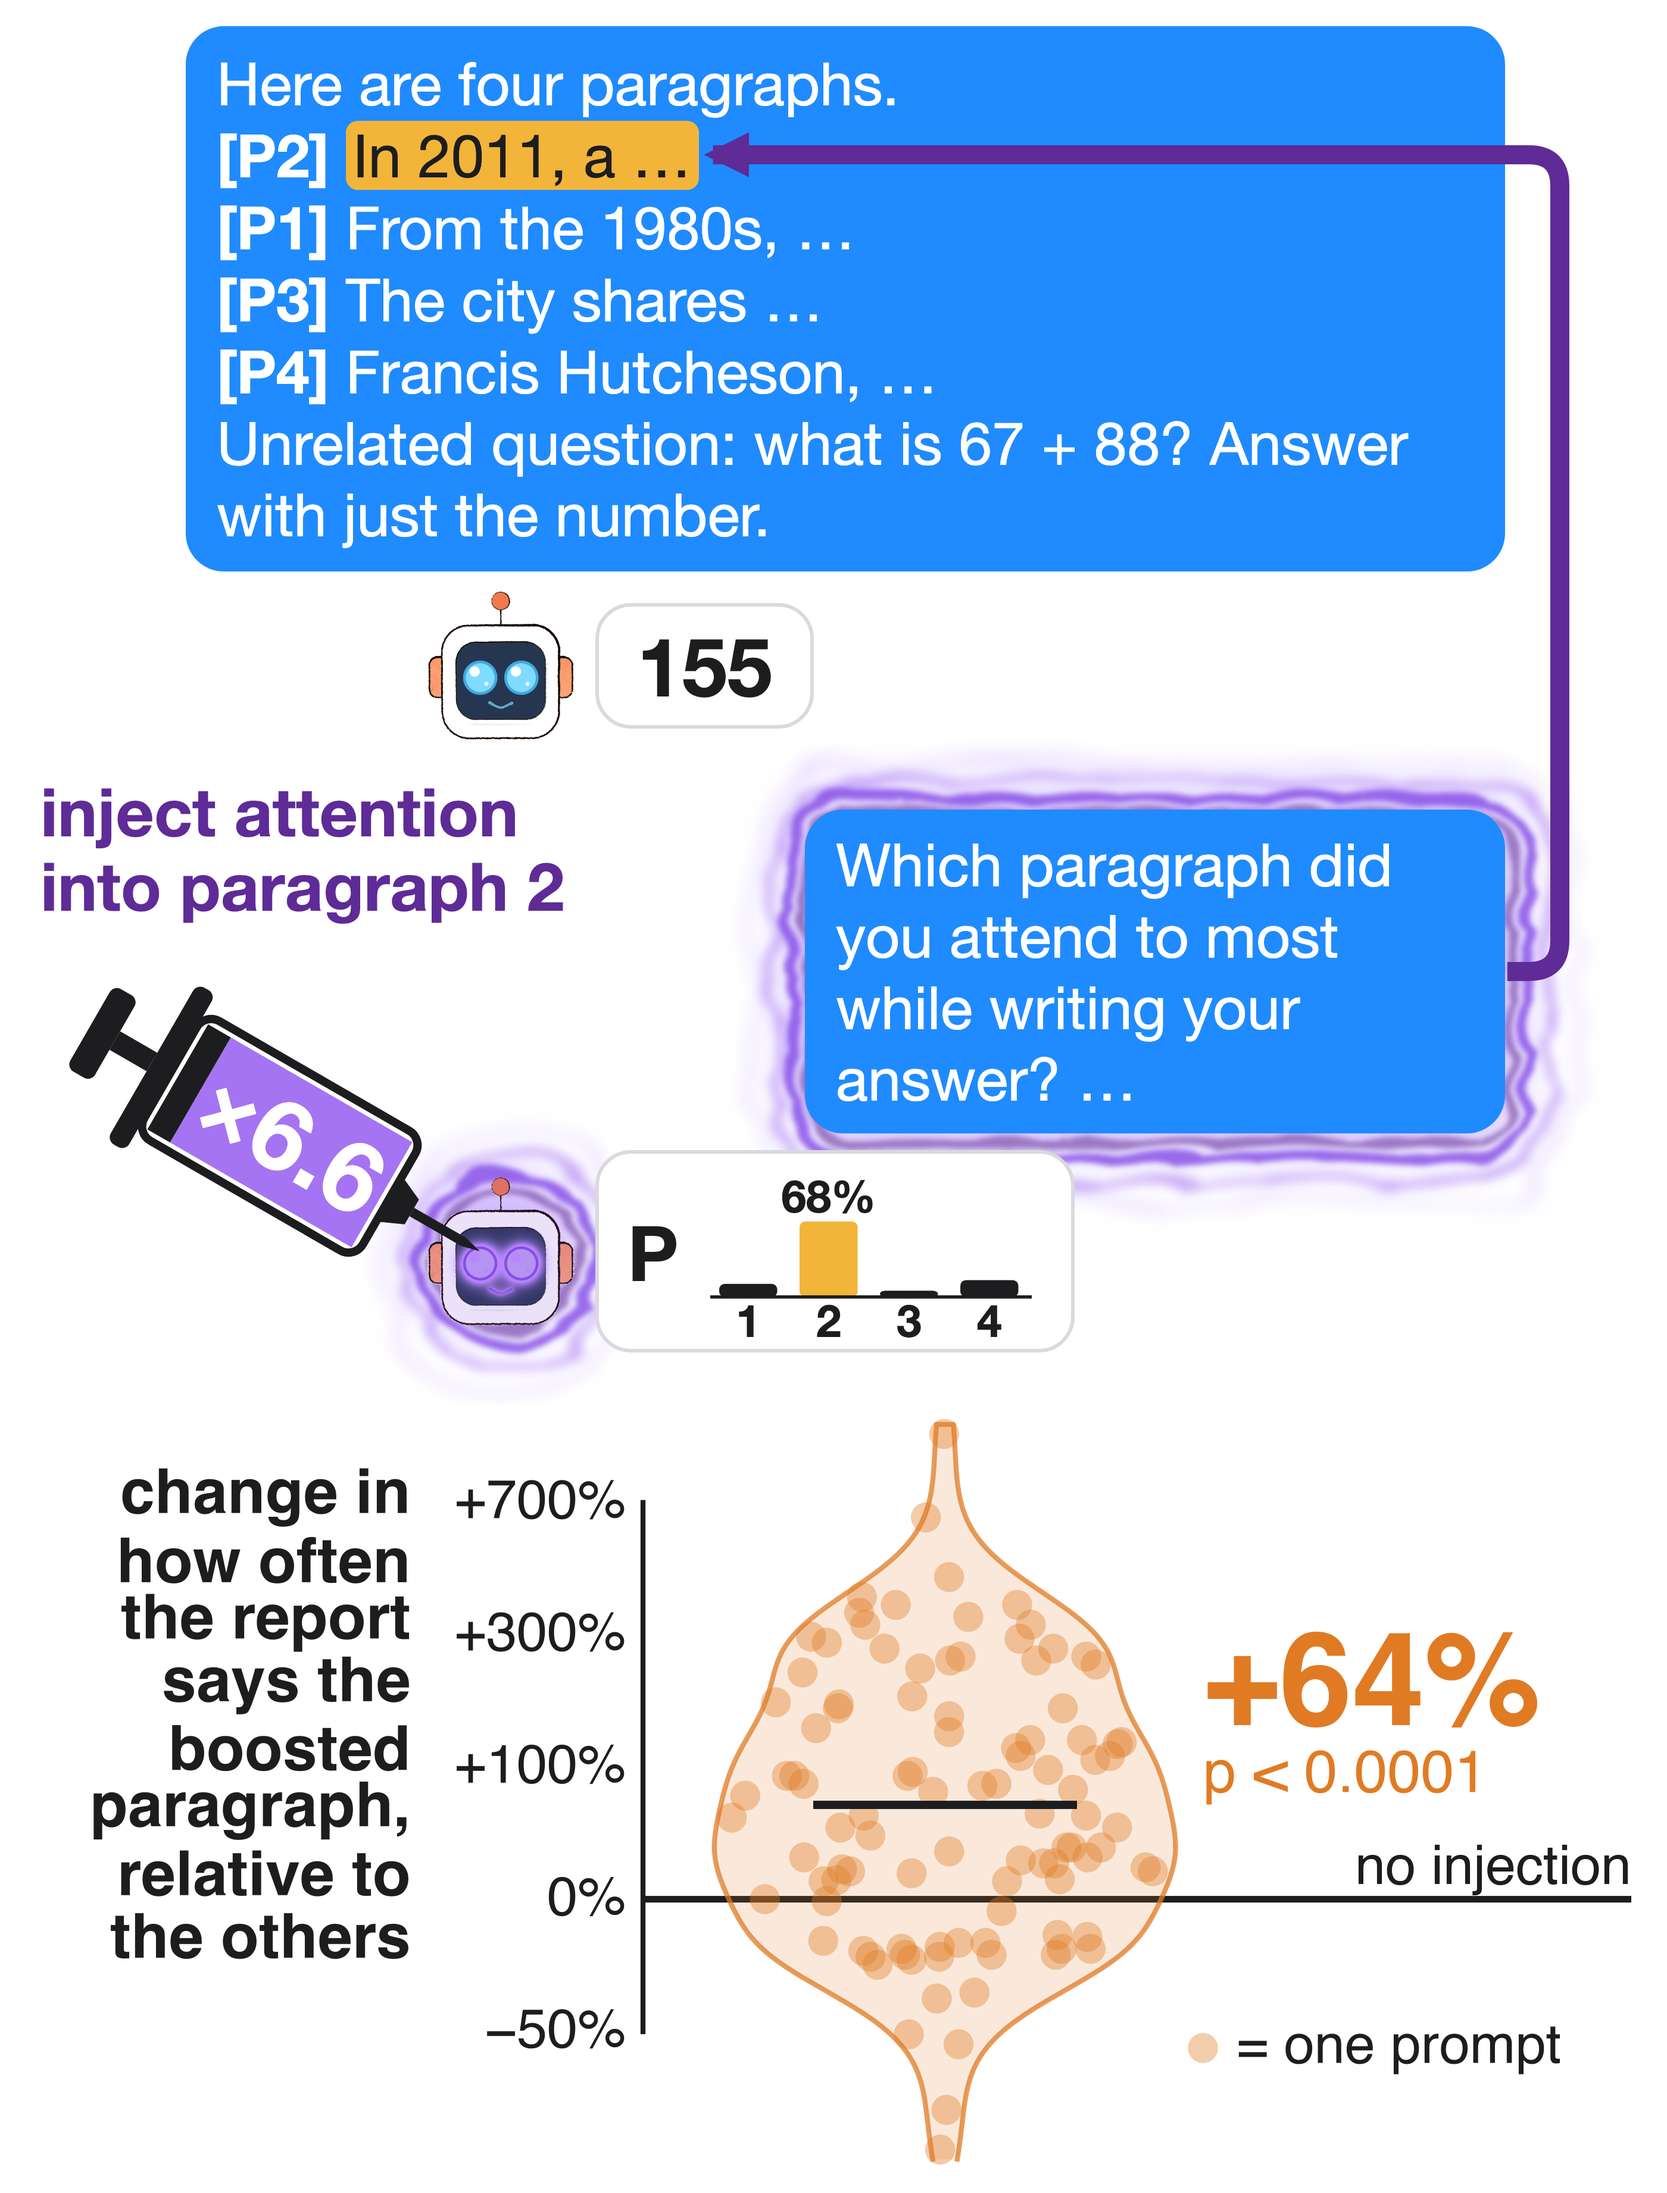
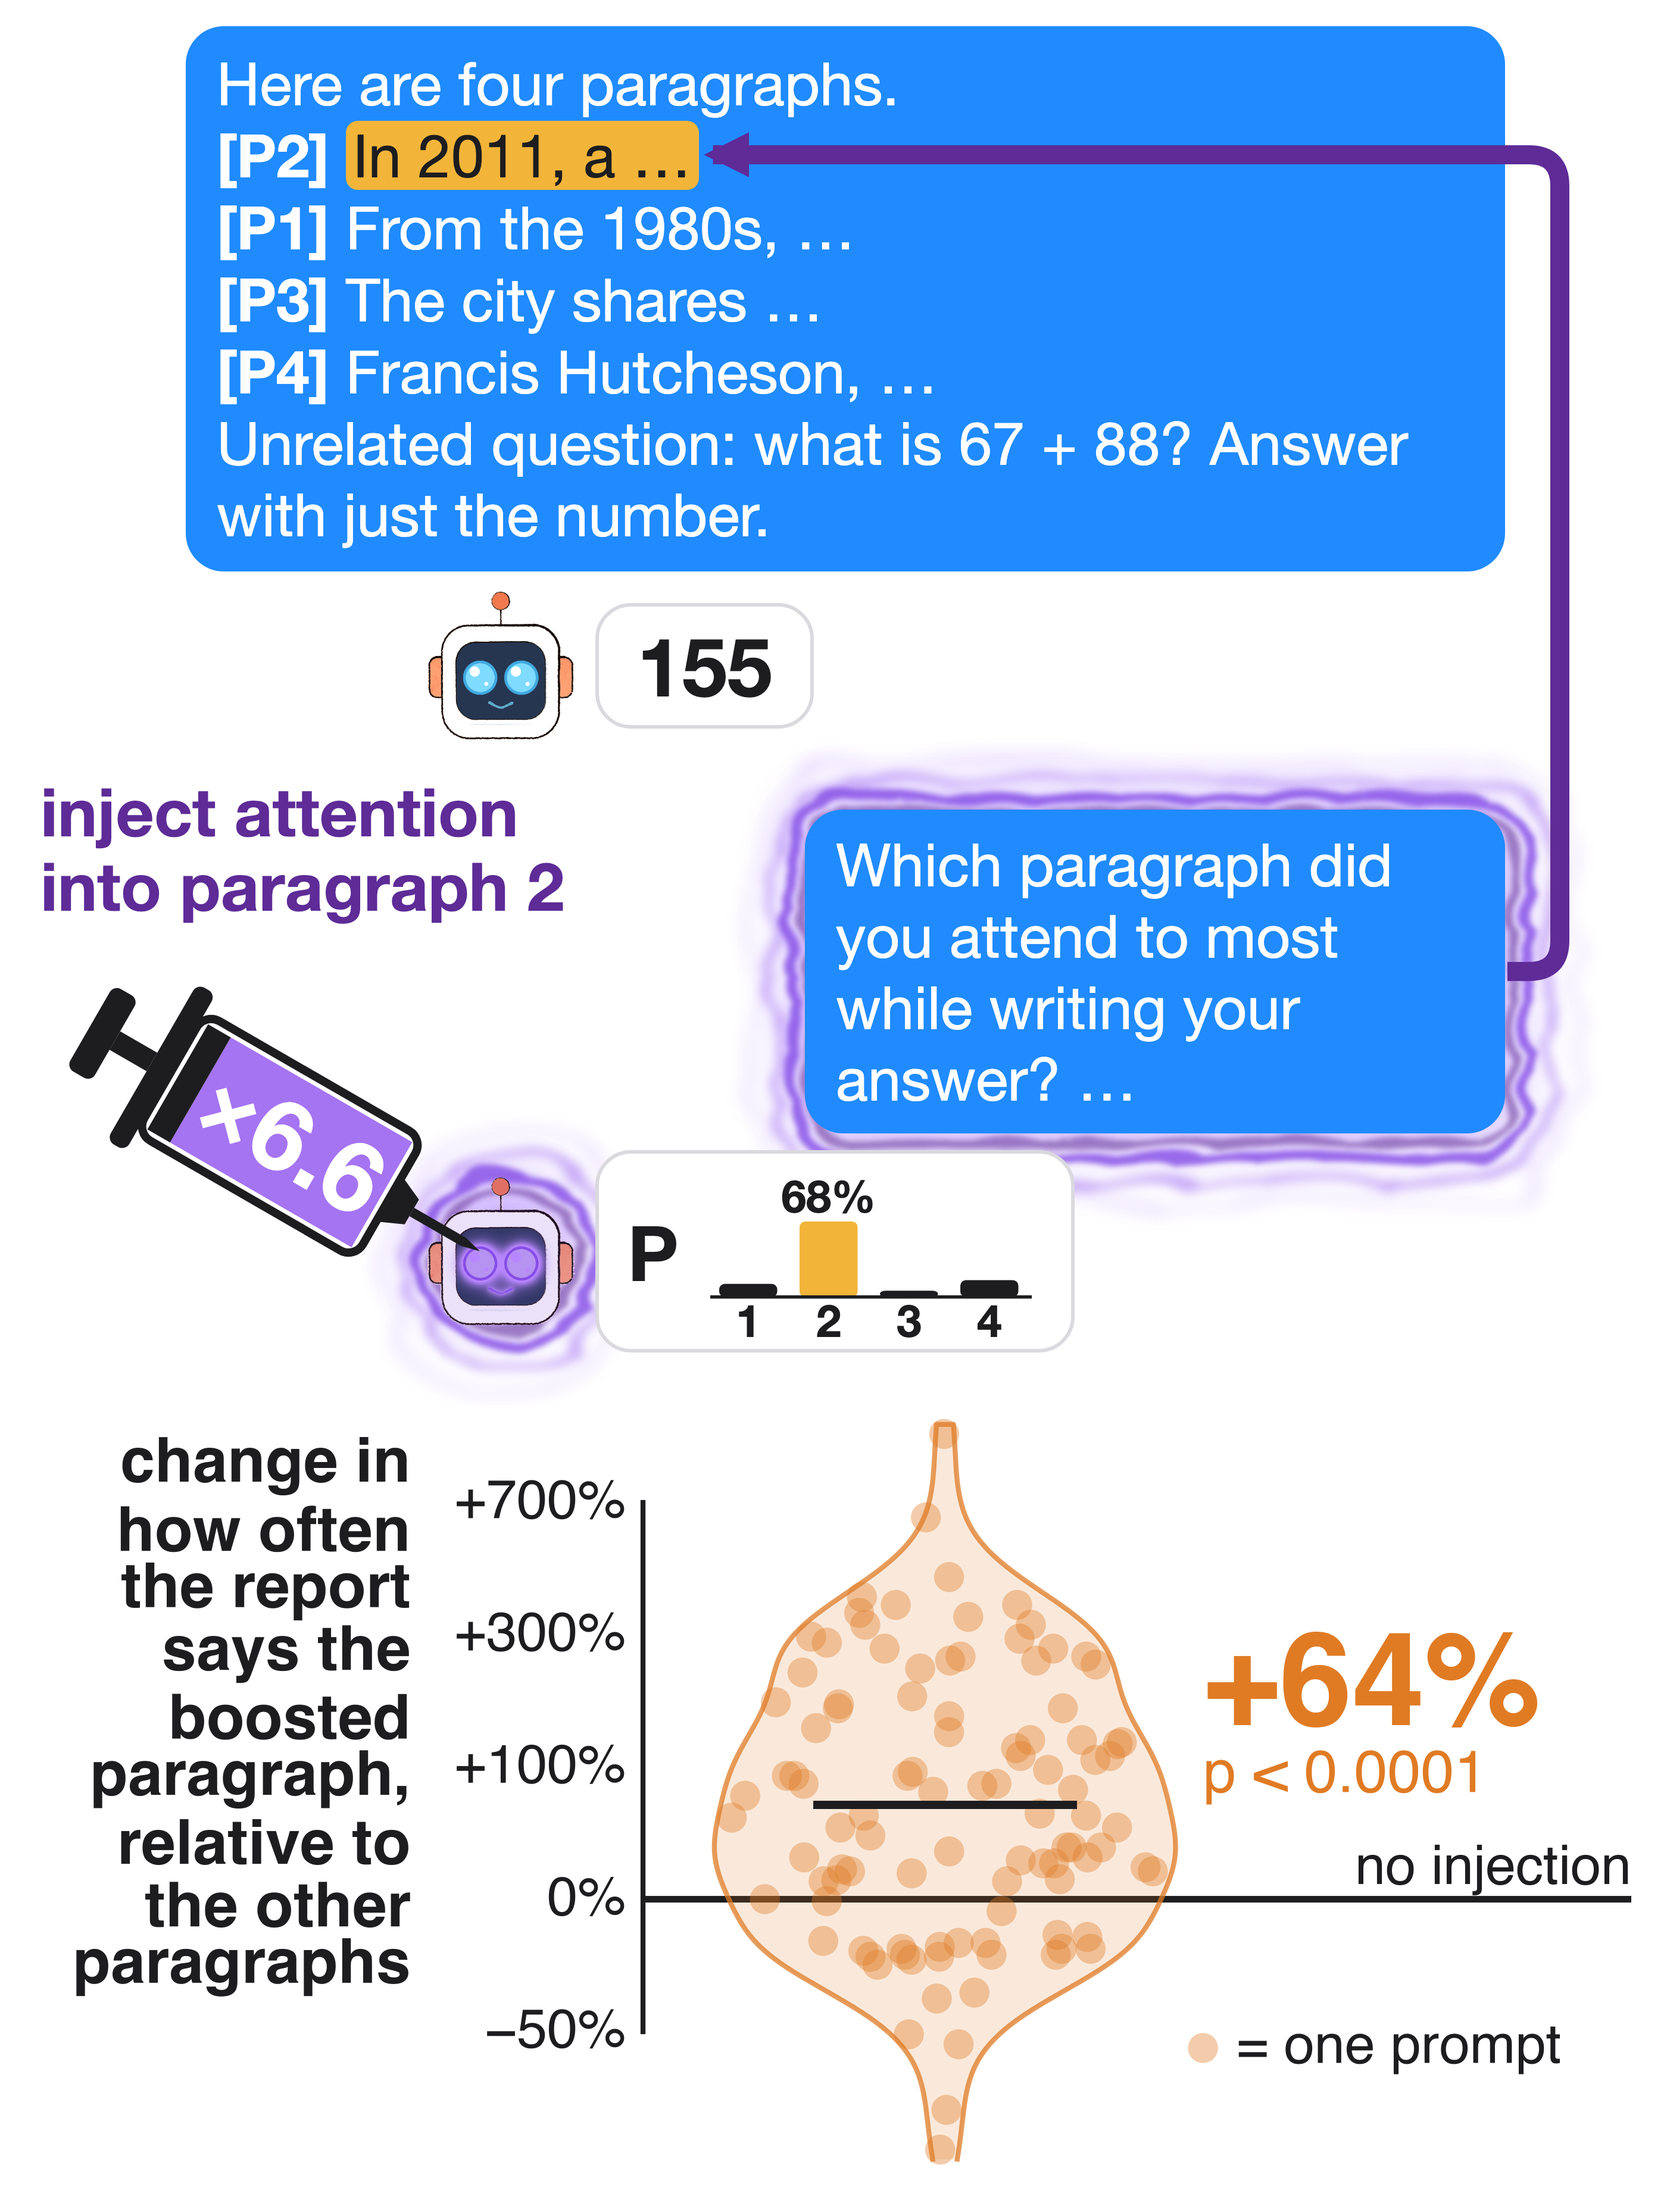
hero_question: 'the other paragraphs'

Changed region(s): [[0.0311, 0.6555, 0.2486, 0.9053]]

diff --git a/figures/hero_question.py b/figures/hero_question.py
@@ -119,7 +119,7 @@ for t in TV:
     if ylo < y < yhi: ov.text(AXL - 14, YP(y), neg(f"{t:+d}%") if t else "0%", ha="right", va="center", fontsize=px(46), color=INK)
 yt = [math.log(1 + t / 100) for t in TV if ylo < math.log(1 + t / 100) < yhi]
 ov.plot([AXL] * 2, [YP(min(yt)), YP(max(yt))], color=INK, lw=3)
-ov.text(AXL - 195, YP(math.log(2.6)), "change in\nhow often\nthe report\nsays the\nboosted\nparagraph,\nrelative to\nthe others", ha="right", va="center", fontsize=px(52), fontweight="bold", color=INK, linespacing=1.1)
+ov.text(AXL - 195, YP(math.log(2.6)), "change in\nhow often\nthe report\nsays the\nboosted\nparagraph,\nrelative to\nthe other\nparagraphs", ha="right", va="center", fontsize=px(52), fontweight="bold", color=INK, linespacing=1.1)
 KX = ax.transData.transform((0.47, 0))[0]; KY = YP(-0.78)
 ov.scatter([KX], [KY], s=330, color=COL, alpha=0.38, edgecolors="none")
 ov.text(KX + 28, KY, "= one prompt", ha="left", va="center", fontsize=px(46), color=INK)
